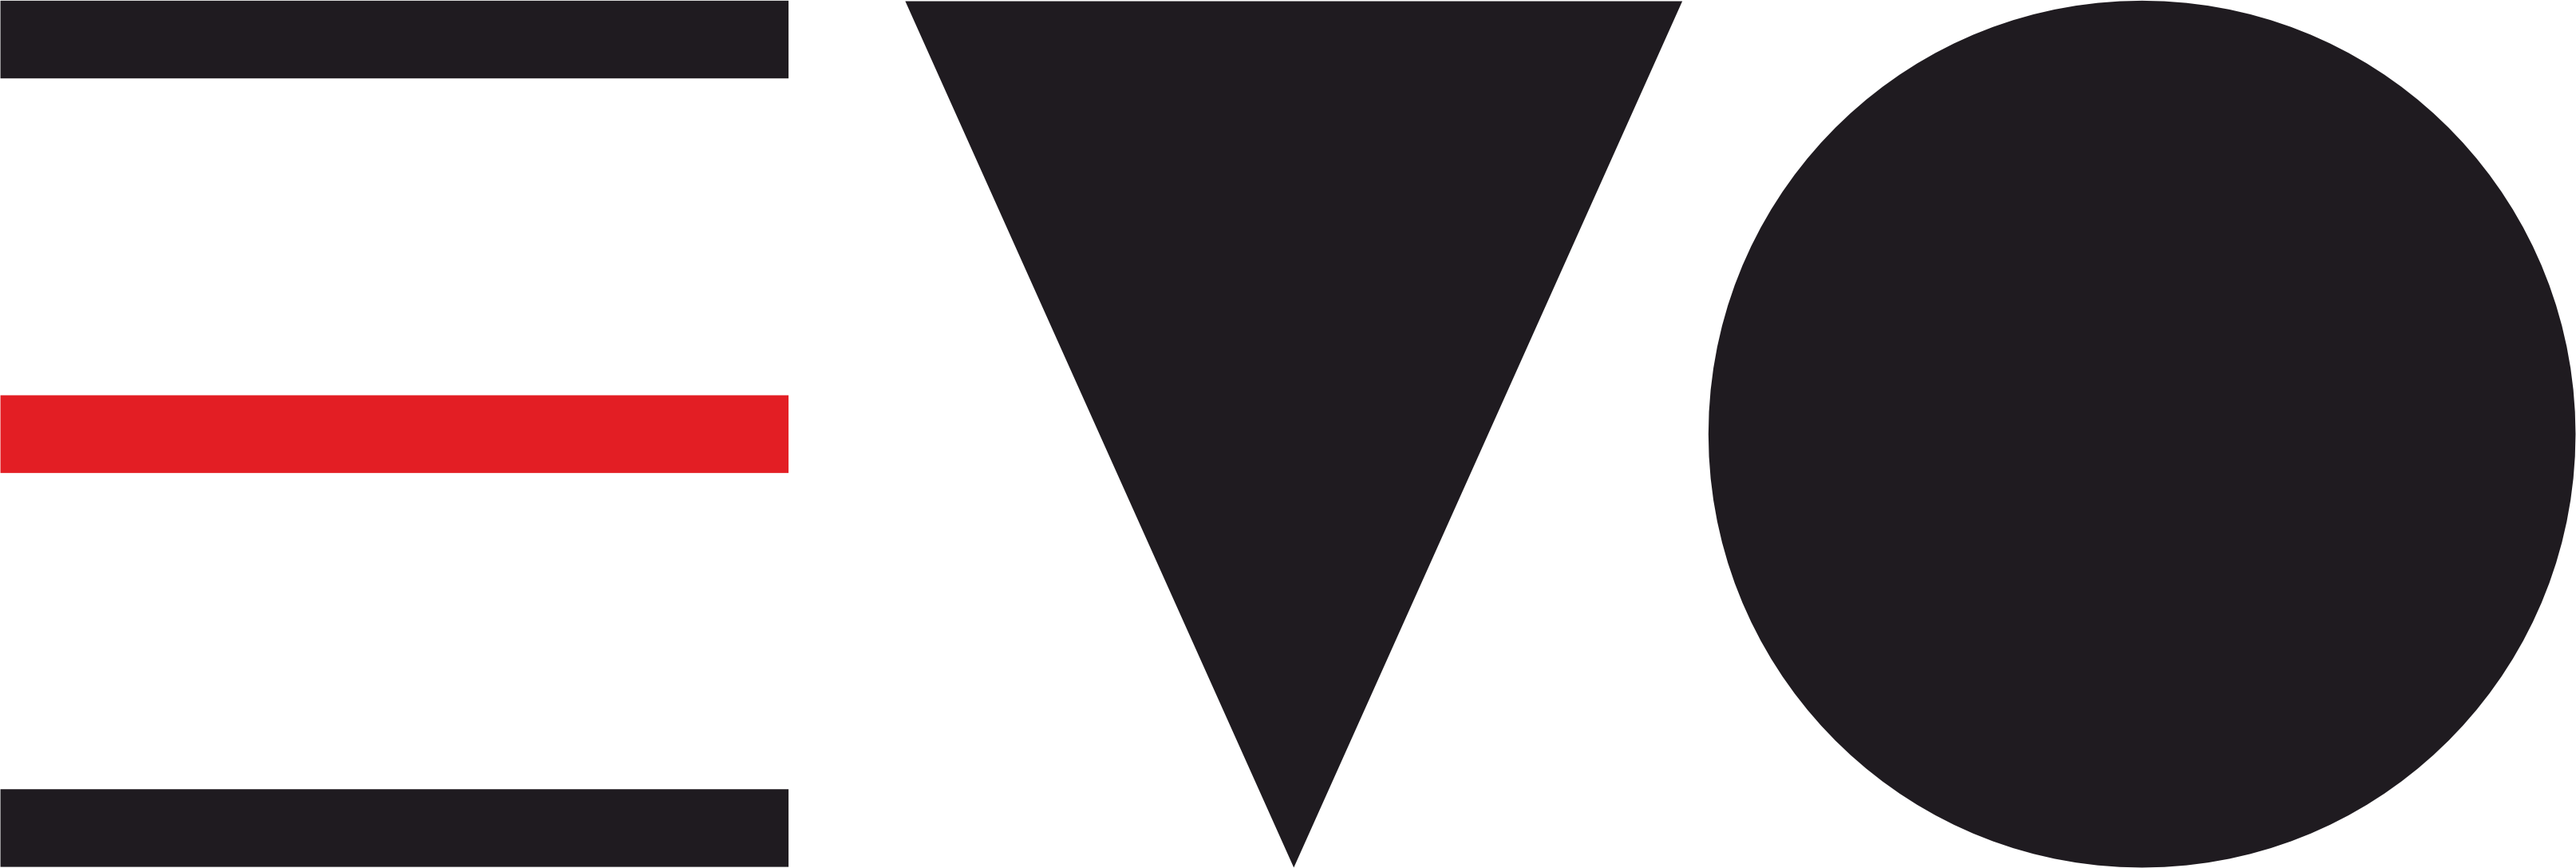
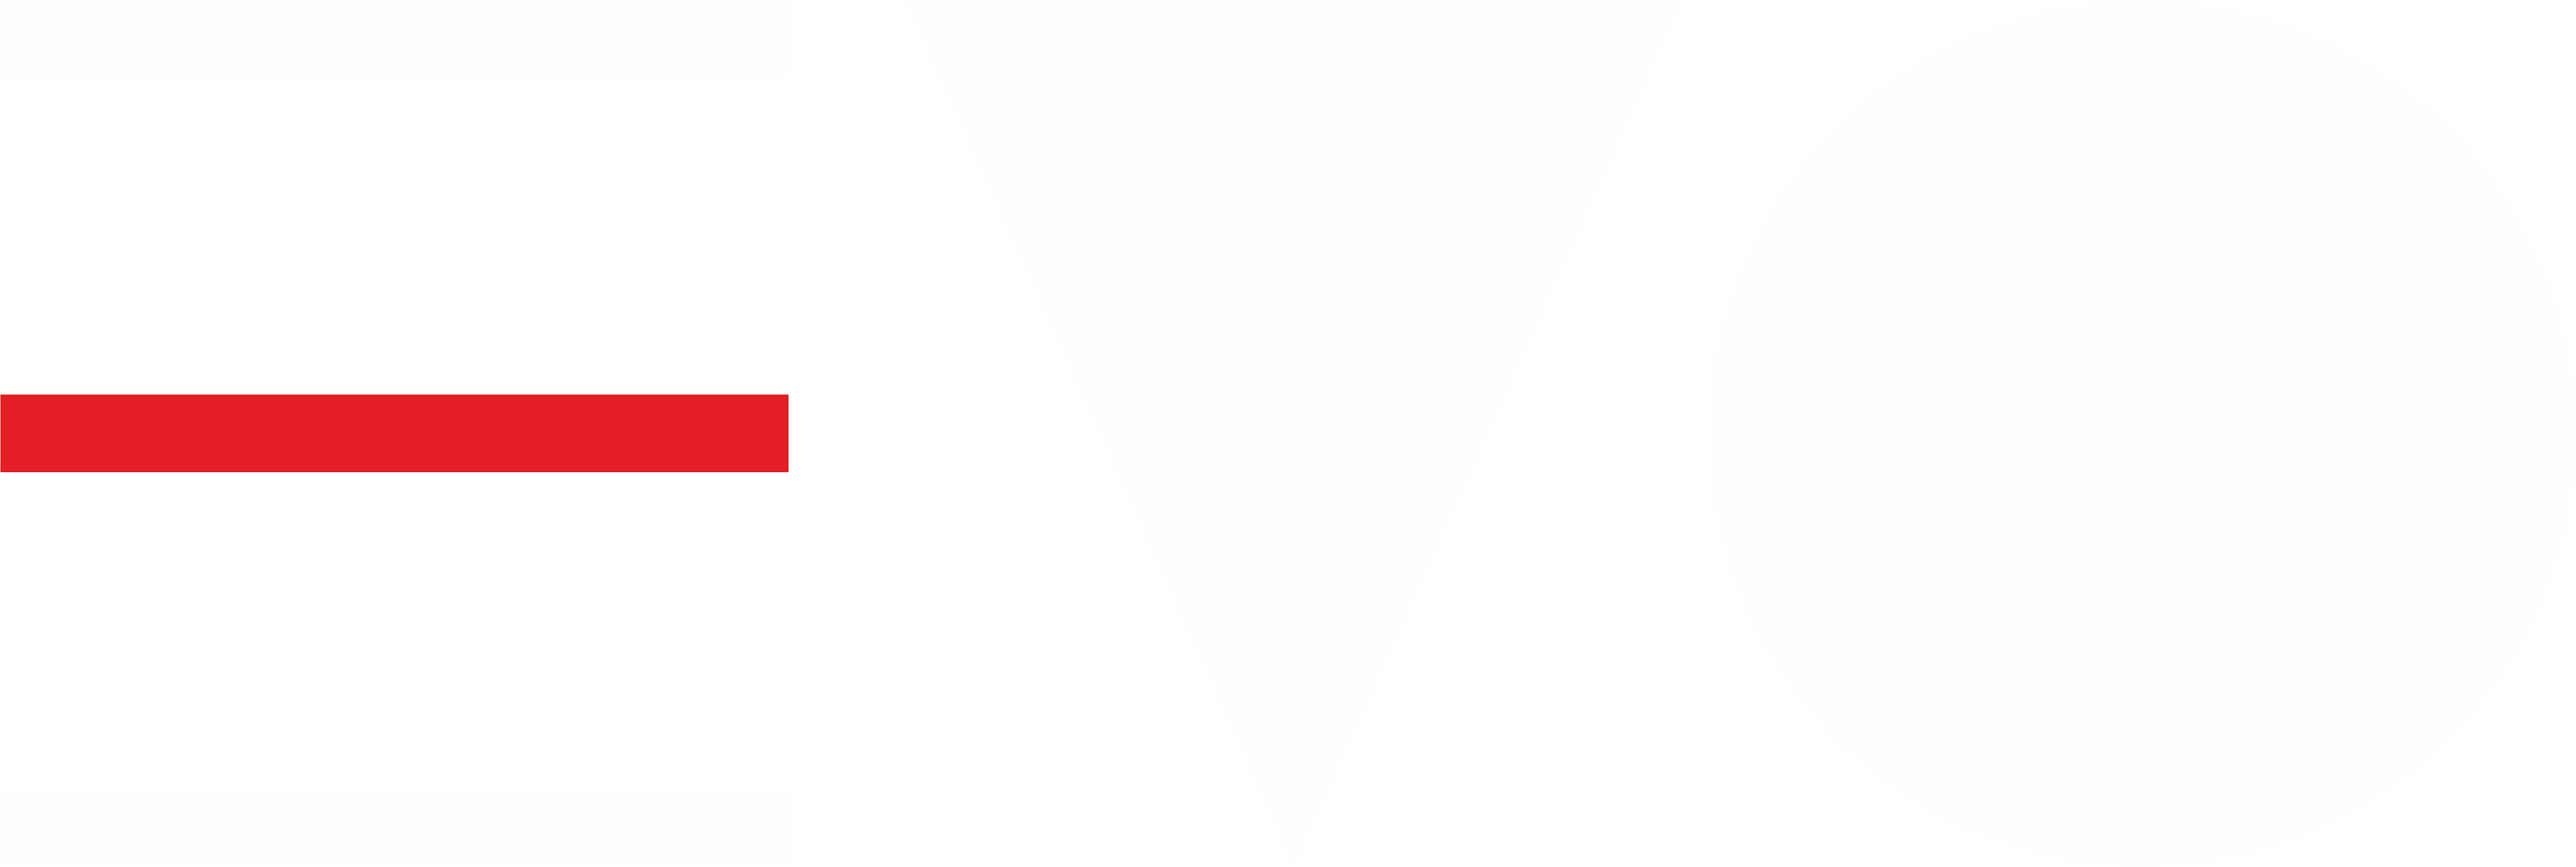
2

diff --git a/index.html b/index.html
@@ -8,10 +8,17 @@
 </head>
 <body>
     <main class="main">
+        <div class="header">
+            <img class="header" src="./img/black.png">
+            <img class="header__logo" src="./img/EVO.png" width="100px">
+        </div>
         <a href="https://web.whatsapp.com/"><button class="main__btn">Whats <span class="main__btn__red">App</span></button></a>
         <a href="https://www.instagram.com/evo.design.studio?igsh=N3IxNGJ1M3plcHE3&utm_source=qr"><button class="main__btn">Instagr<span class="main__btn__red">am</span></button></a>
         <a href="https://web.telegram.org/k/#8316760198"><button class="main__btn"><span class="main__btn__red">Te</span>legram</button></a>
         <a href=""><button class="main__btn">Gmail<span class="main__btn__red">.</span>com</button></a>
+        <div class="footer">
+            <img class="footer" src="./img/design.png">
+        </div>
     </main>
 </body>
 </html>

diff --git a/styles/style.css b/styles/style.css
@@ -11,11 +11,17 @@
     border: 0;
     font-family: "AKONY";
 }
-body{
-    background: url("../img/bg.png");
-    background-position: center;
-    background-repeat: no-repeat;
-    background-size: cover;
+.header{
+    width: 100vw;
+    position: absolute;
+    top: 0;
+    right: 0;
+    z-index: -1;
+}
+.header__logo{
+    position: absolute;
+    right: 10vw;
+    top: 4vh;
 }
 .main{
     min-height: 100vh;
@@ -35,4 +41,11 @@ body{
 }
 .main__btn__red{
     color: #d41b20;
+}
+.footer{
+    width: 100vw;
+    position: absolute;
+    bottom: 0;
+    left: 0;
+    z-index: -1;
 }
